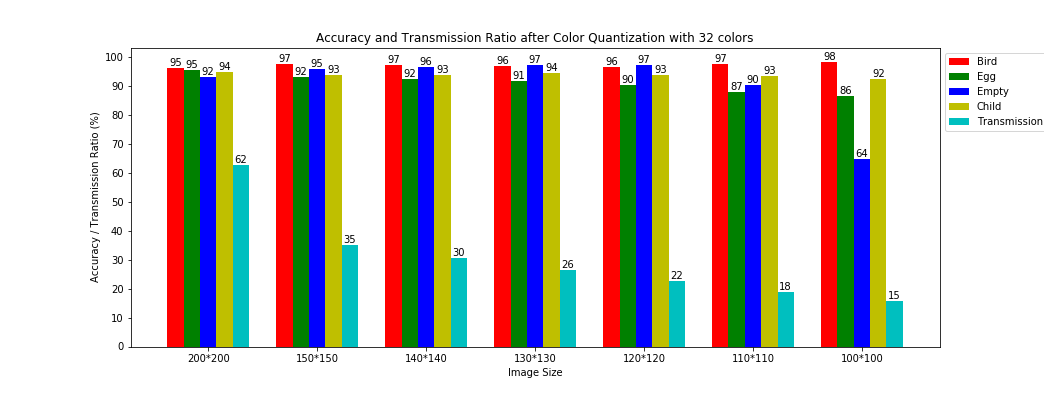
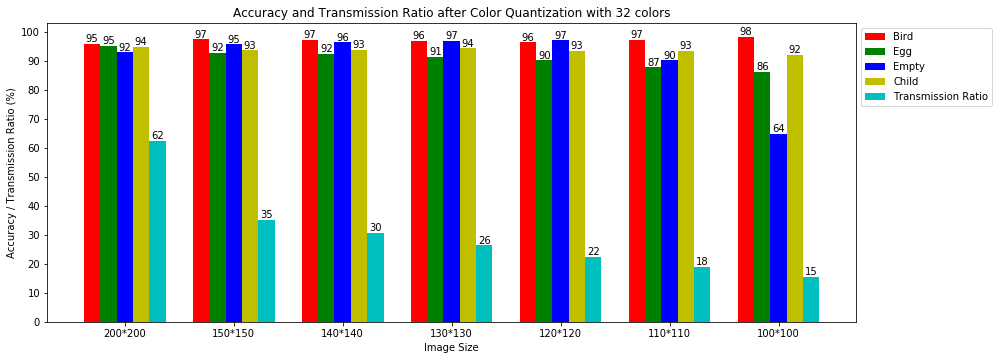
modify graphs

diff --git a/README.md b/README.md
@@ -7,7 +7,9 @@
 * 하지만 WISN 상에서 멀티미디어 데이터를 전송하는 것은 전력소모가 크기 때문에 원본 이미지를 전송하는 것은 에너지 비효율적임
 * 이 문제를 해결하기위해 Image resize와 Color Quantization을 사용하려고 함.
 * WISN 상의 노드가 원본 이미지를 전송하지 않고 Image Quality를 감소시켜 전송량을 줄여도 ConvNN 결과에 크게 영향을 미치지 않고 충분하다는 것
-* 전송량 측면에서 50% 이하로의 전송량 감소, 최대 93% 이상 의 분류 정확도, ~%의 에너지 감소를 보임을 알아냄.
+* 전송량 측면에서 50% 이하로의 전송량 감소 시 96% 이상의 분류 정확도, ~%의 에너지 감소를 보임을 알아냄.
+
+**모니터링, 분류하기 위해서 CNN을 사용할 때, Training이나 Prediction과정에서 이미징 센서를 부착한 노드가 굳이 RAW이미지를 보내지 않아도 Classification Accuracy에 크게 문제가 되지 않는다는 것, 적당한 이미지 프로세싱을 통해서 에너지 소비량이 훨씬 적어진다는 것.**
 
 # Motivation or Challenge
 이미지셋 설명
@@ -24,6 +26,7 @@ CNN을 사용한 이유
     
     -> traditional ML알고리즘 사용 결과 좋지 않았던 것과 사용이 힘든 이유
 
+Data Driven으로 해결함. 선행연구[Ko et al., "Heartbeat of Bird Nest"] 기준 모든 면에서 Accuracy 증가.
 
 # Image Preprocessing for reducing transmission amount
 임베디드 디바이스에서 쉽게 구현 및 적은 계산량, 적은 에너지 소모가 필수적이다.
@@ -44,16 +47,44 @@ preprocessing 된 이미지 몇개 예시(SSIM, PSNR, MSE 등의 Image distortio
             * 출처 : http://tech-algorithm.com/articles/bilinear-image-scaling/
         * 출처에 있는 내용들 조금 이야기
         * 간단한 Psuedo code box 필요할지 모르겠지만 10~14줄 정도
+
 * Image Color Quantization
     * Color Quantization은 원본 이미지의 256색을 모두 사용하는 것이 아닌 일정 수의 표현 가능한 픽셀 수로 줄여서 사용하는 것이다.
     * Color Quantization의 방법에는 "straight-line distance", "nearest color" algorithm, K-means 방식 등이 있다.
-    * 낮은 Distortion(SSIM, PSNR Metric 상)을 유발하는 Algorithm이 좋은 Accuracy result를 줄 수 있겠지만 여러번의 iteration을 거치는 것 또는 Pixel간의 euclidean distance 등을 계산하는 복잡한 것이 아닌 정해진 Color pixel을 고정해서 Quantization을 수행함으로 더 적은 연산을 통해 Color Quantization을 할 수 있다. 
- 
- - time complexity : O(n^2) (n : length of width)
-    * Training도 Color Quantization한 이미지를 사용할 경우 낮은 Distortion이 크게 문제가 되지 않을 것이다.
-    * 정해진 Color Pixel 구하는, 이미지에 Color Quantization 적용하는 psuedo code box (5~6줄 정도)
-    * Color Quantization 후 이미지의 사이즈(bytes) 계산 식
-        * log(2)(# of Colors) * # of pixel
+        * Time complexity, Space Complexity가 높다.
+        * 낮은 Distortion(SSIM, PSNR Metric 상)을 유발하는 Algorithm이 좋은 Accuracy result를 줄 수 있겠지만 여러번의 iteration을 거치는 것 또는 Pixel간의 euclidean distance 등을 계산하는 복잡한 것이 아닌 **정해진 Color pixel을 고정해서 Quantization을 수행함으로 더 적은 연산을 통해 Color Quantization을 할 수 있다.**
+
+    * time complexity : O(n^2) (n : length of width)
+        * Training도 Color Quantization한 이미지를 사용할 경우 낮은 Distortion이 크게 문제가 되지 않을 것이다.
+        * Color Quantization 후 이미지의 사이즈(bytes) 계산 식
+            * log(2)(# of Colors) * # of pixel
+        * 정해진 Color Pixel 구하는, 이미지에 Color Quantization 적용하는 psuedo code box
+```C
+unsigned char get_nearest_centroid(unsigned char pixel) //O(1)
+{
+
+        unsigned char div = 256 >> logK;
+        unsigned char sub = 2 << ((8-logK-1)) -1;
+        unsigned char ret = (pixel - sub) / div;
+
+        if((pixel-sub)%div > sub+1)
+        {
+                ret = ret + 1;
+        }
+        return ret;
+}
+
+//header size = 1078
+void drop_image_quality(unsigned char image[41078]) //O(n^2), n is Width of an image
+{
+        int i;
+        for(i = 1078; i < WIDTH_SQUARE+1078; i++)
+        {
+                printf("%d ", get_nearest_centroid(image[i]));
+        }
+
+}
+```    
 
 [표] Compression ratio
 
@@ -76,36 +107,37 @@ preprocessing 된 이미지 몇개 예시(SSIM, PSNR, MSE 등의 Image distortio
 ## Training model
 
 * 사용한 툴(Caffe), 사용한 모델(GoogleNet), 모델 파라미터??(Deep Learning을 중심적으로하는 학회에서는 재현성을 위해 파라미터를 공개한다고 합니다. 근데 파라미터가 Optimal한 지에 대해 자신이 없네요.. 제 생각엔 새로운 Deep learning 알고리즘이 중심이 아닌 것 같아 자세하게 안해도 될 것 같습니다.)
+
 ### Image Augmentation
-* 새, 빈둥지의 사진은 상대적으로 많을 수 밖에 없다. 그래서 알, 새끼새의 경우 많은 Image Augmentation을 통해 이미지 bias를 해결한다.
-* 새 사진도 2가자의 종(species) 중 Bluebird 이미지의 수가 2배 정도 적다.
-* Image Augmentation을 많이 한 경우
-    * Bluebird -> 3배 (blur, filp)
-    * Swallow -> 2배 (filp)
-    * Egg -> 10배
+* 새, 빈둥지의 사진은 상대적으로 많을 수 밖에 없다. 그래서 알, 새끼새의 경우 많은 Image Augmentation을 통해 Class bias를 해결한다.
+* 새 사진도 2가지의 종(species) 중 Bluebird 이미지의 수가 2배 정도 적다.
+* Image Augmentation
+    * Bluebird -> 2배 (vertical&horizontal flip)
+    * Swallow -> 2배 (vertical&horizontal flip)
+    * Egg -> 9배
         * Crop(1,2,3,4사분면, 가운데를 150 * 150으로 자르고 200 * 200으로 리사이즈)
-        * Vertical, Horizontal, vertical&horizontal
-        * blur        
+        * Vertical, Horizontal, vertical&horizontal flip
     * Child -> 9배
         * Crop(1,2,3,4사분면, 가운데를 150 * 150으로 자르고 200 * 200으로 리사이즈)
-        * Vertical, Horizontal, vertical&horizontal
-* Image Augmentation을 적게 한 경우
-    * Bluebird -> 2배 (filp)
-    * Swallow -> 1배
-    * Egg -> 4배
-        * Vertical, Horizontal, vertical&horizontal        
-    * Child -> 4배
-        * Vertical, Horizontal, vertical&horizontal
+        * Vertical, Horizontal, vertical&horizontal flip
+    * Empty -> No Augmentation
 
 [표] training 이미지 개수와 augmentation 후의 개수
 
-**Image Augmentation을 많이 한 경우에 8, 16 Color의 경우 Accuracy가 상승했지만 256, 32의 경우에는 Accuracy가 크게 떨어졌습니다.**
+|Class|# of orinal images|# of augmented images|
+|---|---|---|
+|Bird|8606|17212|
+|Child|1841|16569|
+|Egg|1036|9324|
+|Empty|6977|Not applied|
+|Total|18460|50082|
 
-## 두 가지 경우에 대해서 Training을 해 봄.
-1. 원본 이미지를 사용해서 Training 후 Validation을 Color Quantization, Resized된 이미지를 사용함.(적은 Augmentation)
-    * 256, 32의 경우 높은 Accuracy를 보이지만 16, 8에서 낮은 Accuracy를 보임
-2. k Color Quantization된 이미지를 사용해서 Training 후 Validation을 k Color Quantization, Resized된 이미지를 사용함. (많은 Augmentaion)
-    * 32, 256의 경우 빈둥지, 새끼새 검출 능력이 매우 좋지않아 전체 Accuracy가 낮게 나오는 경향이 있음.
+## Training
+K Color Quantization된 이미지를 사용해서 Training 후 Validation을 K Color Quantization, Resized된 이미지를 사용함.
+* Training Data를 모으는 과정에서도 에너지 소비를 줄일 수 있음.
+* Labeling은 사람이 해야하므로 양질의 Data Labeling을 위해서 PSNR, SSIM, MSE가 여기서도 중요하다.
+    * 원본 이미지도 사람이 구별하기 힘든 경우가 있음.
+    * 구별 어려운 사진 예시와 그들의 PSNR, SSIM, MSE를 보여주는 것도??
 
 # Evaluation
 1. 전송량 대비 Image Classification Accuracy
@@ -113,9 +145,12 @@ preprocessing 된 이미지 몇개 예시(SSIM, PSNR, MSE 등의 Image distortio
     * [표] Confusion Matrix
     * [그래프] Class 별 Accuracy
     * 그래프 형식은 아래와 같이
-    * 분류 정확도를 떨어뜨리는 요인 중 하나는 청소년새들!
-    * 아직 명확화하지는 않았지만 시계열 정보를 사용하면 더 좋아질 수 있다고 생각합니다.. 전개내용이 약하면 추가하는 것이 맞다고 생각합니다.
-    * 또는 '청소년새' 클래스를 하나 더 만드는 방법도 있는데 어디부터가 청소년인지 정하기가 애매해서 안했습니다. 이 경우 확실히 전체 정확도가 올라갈 것입니다.
+    * ~~분류 정확도를 떨어뜨리는 요인 중 하나는 청소년새들!~~
+        * **Data Driven(Augmentation)으로 해결함.**
+        * 청소년 새들을 제외하고 기존 방법으로 Training을 해봤는데 효과는 있었으나 별로 크지않았습니다.
+    * ~~아직 명확화하지는 않았지만 시계열 정보를 사용하면 더 좋아질 수 있다고 생각합니다.. 전개내용이 약하면 추가하는 것이 맞다고 생각합니다.~~
+        * 이미 충분히 높은 Accuracy가 나온다고 생각합니다. 시계열 정보는 Image Labeling때 소모시간을 줄일 수 있을 것 같습니다.
+        * 앞 뒤 사진의 SSIM이 일정 Threshold를 넘으면 같은 Class 같은 느낌으로 쓸 수 있지 않을까 생각합니다.
 
 참고) Child Class
 
@@ -124,6 +159,23 @@ preprocessing 된 이미지 몇개 예시(SSIM, PSNR, MSE 등의 Image distortio
 ![child3](readme_img/child3.bmp)
 
 위 3개의 이미지가 같은 클래스로 labeling 되어있음. -> '새' 클래스의 경우 완전한 성조가 있는 경우
+
+Classification Result
+
+이전 결과에 비해 높은 정화도를 보이는 이유는 기존에 제가 Training set과 Test set의 차이를 거의 1:1로 사용하고 있었습니다.
+보다 좋은 Training을 위해 Training Set 개수를 늘렸습니다. 
+
+![accu8](readme_img/entire_new/Entire_Accuracy_8.png)
+![accu8](readme_img/entire_new/Entire_Accuracy_16.png)
+![accu8](readme_img/entire_new/Entire_Accuracy_32.png)
+![accu8](readme_img/entire_new/Entire_Accuracy_256.png)
+
+![accu8](readme_img/each_new/Each_Accuracy_8.png)
+![accu8](readme_img/each_new/Each_Accuracy_16.png)
+![accu8](readme_img/each_new/Each_Accuracy_32.png)
+![accu8](readme_img/each_new/Each_Accuracy_256.png)
+
+---
 
 2. Image Distortion Metric (SSIM, PSNR, MSE)
 
@@ -164,31 +216,4 @@ preprocessing 된 이미지 몇개 예시(SSIM, PSNR, MSE 등의 Image distortio
 
 # conclusion
 
-
-
-
-
-# Classification Result
-
----
-
-k Color Quantization된 이미지를 사용해서 Training 후 Validation을 k Color Quantization, Resized된 이미지를 사용함.
-
-32, 256의 경우 빈둥지, 새끼새 검출 능력이 매우 좋지않아 전체 Accuracy가 낮게 나오는 경향이 있음.
-
-전송량 대비 16 colors 200*200 의 경우가 가장 좋은 정확도 93%
-
----
-
-![accu8](readme_img/entire_new/Entire_Accuracy_8.png)
-![accu8](readme_img/entire_new/Entire_Accuracy_16.png)
-![accu8](readme_img/entire_new/Entire_Accuracy_32.png)
-![accu8](readme_img/entire_new/Entire_Accuracy_256.png)
-
-![accu8](readme_img/each_new/Each_Accuracy_8.png)
-![accu8](readme_img/each_new/Each_Accuracy_16.png)
-![accu8](readme_img/each_new/Each_Accuracy_32.png)
-![accu8](readme_img/each_new/Each_Accuracy_256.png)
-
----
 

diff --git a/Reply.md b/Reply.md
@@ -5,6 +5,7 @@
 
 답변 1)
 모니터링, 분류하기 위해서 CNN을 사용할 때, Training이나 Prediction과정에서 이미징 센서를 부착한 노드가 굳이 RAW이미지를 보내지 않아도 Classification Accuracy에 크게 문제가 되지 않는다는 것, 적당한 이미지 프로세싱을 통해서 에너지 소비량이 훨씬 적어진다는 것을 보여주고 싶었습니다.
+또, 실험결과 Raw Image를 사용하는 것보다 processing 후 결과가 더 좋았습니다.
 
 2) 미안합니다, union distribution이 뭔지 제가 잘 몰라서...
 
@@ -23,7 +24,7 @@
      전체 dataset을 가지고 training과 validation을 한 경우를 비교해 보면
      예외 상황으로 인한 정확도 감소가 어느정도인지 감을 잡을 수 있을 것 같은데....
 
-답변 4) 이 경우에 대해서 최대한 빨리 Model training 해보고 말씀드리겠습니다.
+답변 4) 교수님의 말씀대로 진행해보았는데 큰 차이가 없었습니다.
 
 5) color quantization을 세가지 방식을 사용할 수 있다고 하셨는데, 결국 어떤 한가지로 결정을 하신건가요?
      ("straight-line distance", "nearest color" algorithm, K-means )
@@ -66,7 +67,7 @@ void drop_image_quality(unsigned char image[41078])
      - blur는 어느정도 한건가요?
      - filp는... flip을 말하는 거죠?
 
-답변 6) 모두 맞습니다. blur는 7x7 Gaussian Blur를 한번 사용했습니다.
+답변 6) 모두 맞습니다. blur는 7x7 Gaussian Blur를 한번 사용했습니다. **Update된 결과에서는 Blur를 사용하지 않았습니다.**
 
 7) "전송량 대비 정확도"라는 표현을 했는데, 계산을 어떻게 한거죠? 정확도% 나누기 전송량%?
       하나의 새로운 metric 형태로 만들어도 나쁘지 않겠네요.
